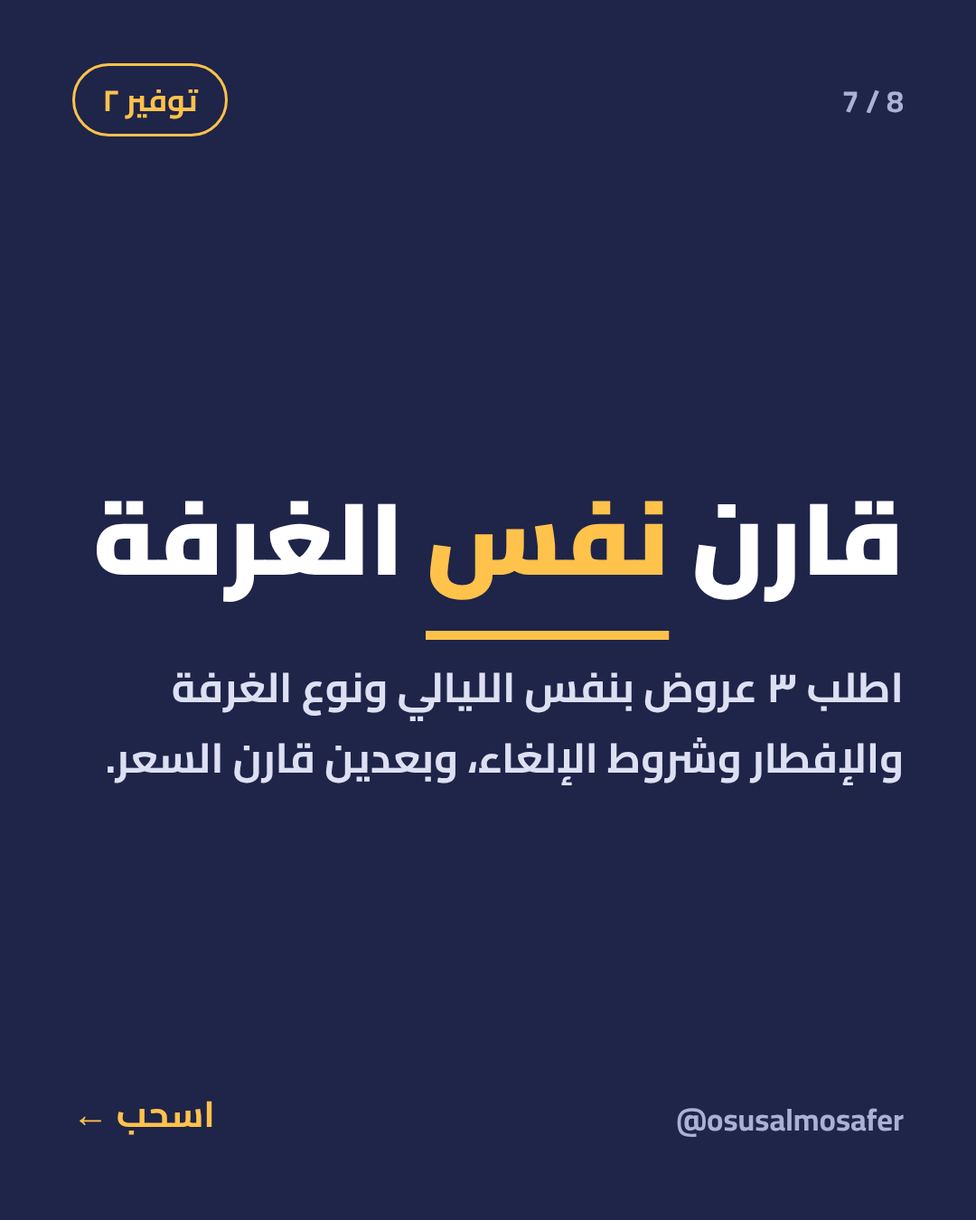
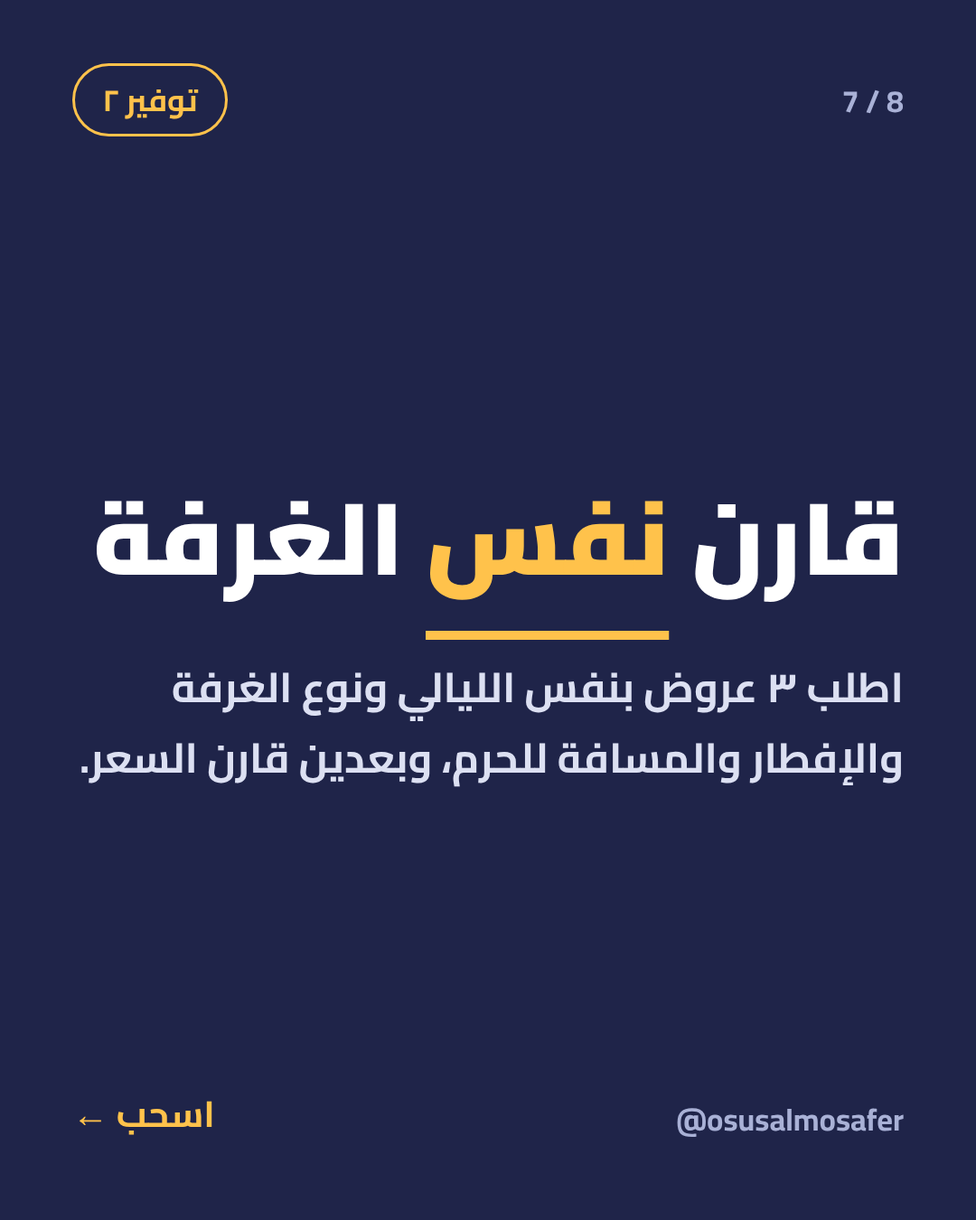
Remove cancellation ideas from carousels; add sixth carousel on family room choice
Claude-Session: https://claude.ai/code/session_018nkkgV5L9WVzQYR2S6kDaX

Changed region(s): [[0.1833, 0.5911, 0.7333, 0.6533], [0.0917, 0.5911, 0.1528, 0.6533]]

diff --git a/carousel/carousel7.html b/carousel/carousel7.html
@@ -1,0 +1,44 @@
+<!doctype html><html lang="ar" dir="rtl"><head><meta charset="utf-8"><style>
+@font-face{font-family:Cairo;src:url(fonts/Cairo.ttf);font-weight:200 1000}
+:root{--bg:#1F2449;--fg:#FFFFFF;--ac:#FFC24B;--mu:#A9B1D6}
+*{box-sizing:border-box;margin:0}body{background:#222;font-family:Cairo}
+.slide{width:1080px;height:1350px;background:var(--bg);color:var(--fg);position:relative;overflow:hidden;margin-bottom:20px}
+.counter,.pill,.brand,.cue{position:absolute;font-weight:700}
+.counter{top:80px;right:80px;font-size:34px;color:var(--mu);direction:ltr}
+.pill{top:70px;left:80px;font-size:34px;border:3px solid var(--ac);color:var(--ac);padding:6px 30px;border-radius:50px}
+.brand{bottom:80px;right:80px;font-size:34px;color:var(--mu);direction:ltr}
+.cue{bottom:80px;left:80px;font-size:40px;color:var(--ac)}
+.main{position:absolute;right:80px;left:80px;top:420px;z-index:2}
+h1{font-weight:900;font-size:112px;line-height:1.35}
+.cover h1{font-size:128px}
+u{display:inline-block;white-space:nowrap;line-height:1.25;color:var(--ac);text-decoration:none;background:linear-gradient(var(--ac),var(--ac)) bottom 6px right/100% 10px no-repeat;padding-bottom:14px}
+.body,.sub{font-weight:700;font-size:46px;line-height:1.7;margin-top:50px;color:#DCE0F2}
+.big{position:absolute;left:60px;top:200px;font-size:420px;font-weight:900;color:var(--ac);opacity:.12;line-height:1;direction:ltr}
+.card .main{top:520px}
+.glow{position:absolute;left:-200px;bottom:-200px;width:900px;height:900px;background:radial-gradient(circle,rgba(255,194,75,.16),transparent 65%)}
+.rings{position:absolute;left:-340px;bottom:-340px;width:760px;height:760px}
+.rings i{position:absolute;border:6px solid var(--ac);border-radius:50%;inset:0}
+.rings i:nth-child(2){inset:120px;opacity:.6}.rings i:nth-child(3){inset:240px;opacity:.35}
+.chips{margin-top:30px;display:flex;flex-direction:column;gap:28px}.chip{border:3px solid #3A4275;border-radius:28px;padding:30px 40px}.chip b{display:block;font-size:56px;font-weight:900;color:var(--ac)}.chip span{font-size:40px;font-weight:700;color:#DCE0F2;line-height:1.5}.cover .main{top:240px}.chips-s .main{top:230px}.last .main{top:420px}
+</style></head><body><section class="slide cover " id="s1"><div class="glow"></div><div class="rings"><i></i><i></i><i></i></div>
+<div class="counter">1 / 7</div><div class="pill">حجز مكة</div>
+<div class="main"><h1>غرفة تناسب <u>عائلتك</u>؟</h1><p class="sub">٥ أشياء تنتبه لها قبل ما تختار</p></div>
+<div class="brand">@osusalmosafer</div><div class="cue">اسحب ←</div></section><section class="slide card " id="s2">
+<div class="counter">2 / 7</div><div class="pill">١</div>
+<div class="main"><h1>نوع <u>الأسرّة</u></h1><p class="body">اسأل: أسرّة منفصلة أو سرير مزدوج؟ وهل السرير الإضافي متوفر ومريح لأطفالك؟</p></div>
+<div class="brand">@osusalmosafer</div><div class="cue">اسحب ←</div></section><section class="slide card " id="s3">
+<div class="counter">3 / 7</div><div class="pill">٢</div>
+<div class="main"><h1>غرف <u>مترابطة</u></h1><p class="body">للعائلة الكبيرة، اسأل عن الغرف المترابطة أو الجناح. أفضل من غرف متفرقة في أدوار مختلفة.</p></div>
+<div class="brand">@osusalmosafer</div><div class="cue">اسحب ←</div></section><section class="slide card " id="s4">
+<div class="counter">4 / 7</div><div class="pill">٣</div>
+<div class="main"><h1>الدور <u>والمصاعد</u></h1><p class="body">تأكد أن الغرفة قريبة من المصاعد وسهلة الوصول، خصوصاً لكبار السن وأوقات الذروة.</p></div>
+<div class="brand">@osusalmosafer</div><div class="cue">اسحب ←</div></section><section class="slide card " id="s5">
+<div class="counter">5 / 7</div><div class="pill">٤</div>
+<div class="main"><h1>الإطلالة <u>تستاهل</u>؟</h1><p class="body">الإطلالة تزيد السعر. حدد أولويتك: راحة وسعة أكبر، أو إطلالة بسعر أعلى؟</p></div>
+<div class="brand">@osusalmosafer</div><div class="cue">اسحب ←</div></section><section class="slide card " id="s6">
+<div class="counter">6 / 7</div><div class="pill">٥</div>
+<div class="main"><h1>الإفطار <u>والخدمات</u></h1><p class="body">تأكد أن الإفطار والخدمات تناسب أطفالك وكبار السن، وأوقاتها تناسب برنامجكم.</p></div>
+<div class="brand">@osusalmosafer</div><div class="cue">اسحب ←</div></section><section class="slide last " id="s7">
+<div class="counter">7 / 7</div><div class="pill">الخلاصة</div>
+<div class="main"><h1>الغرفة المناسبة <u>تريّحك</u></h1><p class="body">أرسلها لمن يجهز لرحلة مكة. وإذا تبي نرشح لك غرفة تناسب عائلتك، راسلنا.</p></div>
+<div class="brand">@osusalmosafer</div></section></body></html>

diff --git a/carousel/carousel2.html b/carousel/carousel2.html
@@ -40,7 +40,7 @@ u{color:var(--ac);text-decoration:none;background:linear-gradient(var(--ac),var(
 <div class="main"><h1>احجز <u>بدري</u></h1><p class="body">بعيد عن رمضان وأيام الحج الأسعار أقل بكثير. كل ما قربت من الموسم ارتفع السعر.</p></div>
 <div class="brand">@osusalmosafer</div><div class="cue">اسحب ←</div></section><section class="slide card " id="s7">
 <div class="counter">7 / 8</div><div class="pill">توفير ٢</div>
-<div class="main"><h1>قارن <u>نفس</u> الغرفة</h1><p class="body">اطلب ٣ عروض بنفس الليالي ونوع الغرفة والإفطار وشروط الإلغاء، وبعدين قارن السعر.</p></div>
+<div class="main"><h1>قارن <u>نفس</u> الغرفة</h1><p class="body">اطلب ٣ عروض بنفس الليالي ونوع الغرفة والإفطار والمسافة للحرم، وبعدين قارن السعر.</p></div>
 <div class="brand">@osusalmosafer</div><div class="cue">اسحب ←</div></section><section class="slide last " id="s8">
 <div class="counter">8 / 8</div><div class="pill">الخلاصة</div>
 <div class="main"><h1>الأرخص مو <u>دائماً</u> نفس الشي</h1><p class="body">الأسعار تتغير حسب الموسم، فقارن قبل ما تحجز. احفظها وأرسلها لمن يسافر لمكة.</p></div>

diff --git a/carousel/carousel4.html b/carousel/carousel4.html
@@ -28,7 +28,7 @@ u{display:inline-block;white-space:nowrap;line-height:1.25;color:var(--ac);text-
 <div class="main"><h1>تحجز <u>متأخر</u></h1><p class="body">كل ما قربت من الموسم ارتفع السعر وقلّت الخيارات. الحجز المبكر يعطيك خيارات أوسع.</p></div>
 <div class="brand">@osusalmosafer</div><div class="cue">اسحب ←</div></section><section class="slide card " id="s3">
 <div class="counter">3 / 7</div><div class="pill">خطأ ٢</div>
-<div class="main"><h1>تقارن <u>السعر</u> فقط</h1><p class="body">قارن معه الشروط: الإفطار، والإلغاء، والمسافة، ونوع الغرفة. سعر أقل بشروط أضعف مو توفير.</p></div>
+<div class="main"><h1>تقارن <u>السعر</u> فقط</h1><p class="body">قارن معه الشروط: الإفطار، والمسافة، ونوع الغرفة. سعر أقل بشروط أضعف مو توفير.</p></div>
 <div class="brand">@osusalmosafer</div><div class="cue">اسحب ←</div></section><section class="slide card " id="s4">
 <div class="counter">4 / 7</div><div class="pill">خطأ ٣</div>
 <div class="main"><h1>تدفع بدون <u>إثبات</u></h1><p class="body">تأكد أن الوكالة مرخصة، واطلب إثبات حجز باسمك، وتأكد من رقم التأكيد مع الفندق نفسه.</p></div>

diff --git a/carousel/carousel6.html b/carousel/carousel6.html
@@ -34,7 +34,7 @@ u{display:inline-block;white-space:nowrap;line-height:1.25;color:var(--ac);text-
 <div class="main"><h1>كم <u>يبعد</u>؟</h1><p class="body">اسأل كم دقيقة مشي للحرم وأقرب باب، وهل فيه نقل. الكلمة «قريب» لحالها ما تكفي.</p></div>
 <div class="brand">@osusalmosafer</div><div class="cue">اسحب ←</div></section><section class="slide card " id="s5">
 <div class="counter">5 / 7</div><div class="pill">سؤال ٤</div>
-<div class="main"><h1>وش <u>الإلغاء</u>؟</h1><p class="body">اسأل عن شروط الإلغاء والتعديل والاسترجاع، واطلبها مكتوبة قبل ما تدفع.</p></div>
+<div class="main"><h1>كم <u>الليالي</u> بالضبط؟</h1><p class="body">تأكد من تاريخ الدخول والخروج وعدد الليالي ووقت تسجيل الدخول، عشان ما تتفاجأ عند الوصول.</p></div>
 <div class="brand">@osusalmosafer</div><div class="cue">اسحب ←</div></section><section class="slide card " id="s6">
 <div class="counter">6 / 7</div><div class="pill">سؤال ٥</div>
 <div class="main"><h1>متى <u>التأكيد</u>؟</h1><p class="body">اسأل متى يوصلك تأكيد الحجز، وبأي طريقة، وهل تقدر تتأكد منه مع الفندق نفسه.</p></div>

diff --git a/carousel/carousel3.html b/carousel/carousel3.html
@@ -34,7 +34,7 @@ u{display:inline-block;white-space:nowrap;line-height:1.25;color:var(--ac);text-
 <div class="main"><h1>الغرفة <u>تكفيكم</u></h1><p class="body">تأكد من عدد الأسرّة والسعة لعدد أفراد عائلتك فعلاً، مو بس الحد الأقصى.</p></div>
 <div class="brand">@osusalmosafer</div><div class="cue">اسحب ←</div></section><section class="slide card " id="s5">
 <div class="counter">5 / 7</div><div class="pill">٤</div>
-<div class="main"><h1>شروط <u>الإلغاء</u></h1><p class="body">اقرأ شروط الإلغاء والتعديل واطلبها مكتوبة قبل ما تدفع. تفرق معك لو تغيرت خطتك.</p></div>
+<div class="main"><h1>الخدمات <u>المشمولة</u></h1><p class="body">اسأل وش يشمل السعر: الإفطار، والنقل، وخدمات الغرفة. عشان ما تدفع على شي تحسبه مجاني.</p></div>
 <div class="brand">@osusalmosafer</div><div class="cue">اسحب ←</div></section><section class="slide card " id="s6">
 <div class="counter">6 / 7</div><div class="pill">٥</div>
 <div class="main"><h1>التقييمات <u>الأخيرة</u></h1><p class="body">اقرأ تقييمات آخر ٣ أشهر مو الأقدم، خصوصاً من ناس سافروا في نفس موسمك.</p></div>

diff --git a/carousel/render7.js b/carousel/render7.js
@@ -1,0 +1,5 @@
+const {chromium}=require('playwright');
+(async()=>{const b=await chromium.launch();const p=await b.newPage({viewport:{width:1080,height:1350}});
+await p.goto('file://'+process.cwd()+'/carousel7.html');await p.evaluate(()=>document.fonts.ready);await p.waitForTimeout(500);
+for(let i=1;i<=7;i++){await (await p.$('#s'+i)).screenshot({path:`room-${i}.png`});}
+await b.close()})();

diff --git a/carousel/gen7.py b/carousel/gen7.py
@@ -1,0 +1,45 @@
+slides = [
+ dict(kind="cover", label="حجز مكة", h="غرفة تناسب <u>عائلتك</u>؟", sub="٥ أشياء تنتبه لها قبل ما تختار"),
+ dict(kind="card", label="١", h="نوع <u>الأسرّة</u>", body="اسأل: أسرّة منفصلة أو سرير مزدوج؟ وهل السرير الإضافي متوفر ومريح لأطفالك؟"),
+ dict(kind="card", label="٢", h="غرف <u>مترابطة</u>", body="للعائلة الكبيرة، اسأل عن الغرف المترابطة أو الجناح. أفضل من غرف متفرقة في أدوار مختلفة."),
+ dict(kind="card", label="٣", h="الدور <u>والمصاعد</u>", body="تأكد أن الغرفة قريبة من المصاعد وسهلة الوصول، خصوصاً لكبار السن وأوقات الذروة."),
+ dict(kind="card", label="٤", h="الإطلالة <u>تستاهل</u>؟", body="الإطلالة تزيد السعر. حدد أولويتك: راحة وسعة أكبر، أو إطلالة بسعر أعلى؟"),
+ dict(kind="card", label="٥", h="الإفطار <u>والخدمات</u>", body="تأكد أن الإفطار والخدمات تناسب أطفالك وكبار السن، وأوقاتها تناسب برنامجكم."),
+ dict(kind="last", label="الخلاصة", h="الغرفة المناسبة <u>تريّحك</u>", body="أرسلها لمن يجهز لرحلة مكة. وإذا تبي نرشح لك غرفة تناسب عائلتك، راسلنا."),
+]
+N=len(slides)
+out=[]
+for i,s in enumerate(slides,1):
+    cue = '' if i==N else '<div class="cue">اسحب ←</div>'
+    chips = ''.join(f'<div class="chip"><b>{a}</b><span>{b}</span></div>' for a,b in s.get("chips",[]))
+    vis = '<div class="glow"></div><div class="rings"><i></i><i></i><i></i></div>' if s["kind"]=="cover" else ''
+    sub = f'<p class="sub">{s["sub"]}</p>' if s["kind"]=="cover" else f'<p class="body">{s.get("body","")}</p>'
+    num = ''
+    out.append(f'''<section class="slide {s["kind"]} {"chips-s" if s["kind"]=="chips" else ""}" id="s{i}">{vis}{num}
+<div class="counter">{i} / {N}</div><div class="pill">{s["label"] if s["kind"]!="cover" else "حجز مكة"}</div>
+<div class="main"><h1>{s["h"]}</h1>{sub if s["kind"]!="chips" else '<div class="chips">'+chips+'</div>'}</div>
+<div class="brand">@osusalmosafer</div>{cue}</section>''')
+html=f'''<!doctype html><html lang="ar" dir="rtl"><head><meta charset="utf-8"><style>
+@font-face{{font-family:Cairo;src:url(fonts/Cairo.ttf);font-weight:200 1000}}
+:root{{--bg:#1F2449;--fg:#FFFFFF;--ac:#FFC24B;--mu:#A9B1D6}}
+*{{box-sizing:border-box;margin:0}}body{{background:#222;font-family:Cairo}}
+.slide{{width:1080px;height:1350px;background:var(--bg);color:var(--fg);position:relative;overflow:hidden;margin-bottom:20px}}
+.counter,.pill,.brand,.cue{{position:absolute;font-weight:700}}
+.counter{{top:80px;right:80px;font-size:34px;color:var(--mu);direction:ltr}}
+.pill{{top:70px;left:80px;font-size:34px;border:3px solid var(--ac);color:var(--ac);padding:6px 30px;border-radius:50px}}
+.brand{{bottom:80px;right:80px;font-size:34px;color:var(--mu);direction:ltr}}
+.cue{{bottom:80px;left:80px;font-size:40px;color:var(--ac)}}
+.main{{position:absolute;right:80px;left:80px;top:420px;z-index:2}}
+h1{{font-weight:900;font-size:112px;line-height:1.35}}
+.cover h1{{font-size:128px}}
+u{{display:inline-block;white-space:nowrap;line-height:1.25;color:var(--ac);text-decoration:none;background:linear-gradient(var(--ac),var(--ac)) bottom 6px right/100% 10px no-repeat;padding-bottom:14px}}
+.body,.sub{{font-weight:700;font-size:46px;line-height:1.7;margin-top:50px;color:#DCE0F2}}
+.big{{position:absolute;left:60px;top:200px;font-size:420px;font-weight:900;color:var(--ac);opacity:.12;line-height:1;direction:ltr}}
+.card .main{{top:520px}}
+.glow{{position:absolute;left:-200px;bottom:-200px;width:900px;height:900px;background:radial-gradient(circle,rgba(255,194,75,.16),transparent 65%)}}
+.rings{{position:absolute;left:-340px;bottom:-340px;width:760px;height:760px}}
+.rings i{{position:absolute;border:6px solid var(--ac);border-radius:50%;inset:0}}
+.rings i:nth-child(2){{inset:120px;opacity:.6}}.rings i:nth-child(3){{inset:240px;opacity:.35}}
+.chips{{margin-top:30px;display:flex;flex-direction:column;gap:28px}}.chip{{border:3px solid #3A4275;border-radius:28px;padding:30px 40px}}.chip b{{display:block;font-size:56px;font-weight:900;color:var(--ac)}}.chip span{{font-size:40px;font-weight:700;color:#DCE0F2;line-height:1.5}}.cover .main{{top:240px}}.chips-s .main{{top:230px}}.last .main{{top:420px}}
+</style></head><body>{"".join(out)}</body></html>'''
+open("carousel7.html","w").write(html)

diff --git a/carousel/gen4.py b/carousel/gen4.py
@@ -1,7 +1,7 @@
 slides = [
  dict(kind="cover", label="حجز مكة", h="٥ أخطاء <u>تكلفك أكثر</u>", sub="عند حجز فندق مكة، تجنبها قبل رحلتك"),
  dict(kind="card", label="خطأ ١", h="تحجز <u>متأخر</u>", body="كل ما قربت من الموسم ارتفع السعر وقلّت الخيارات. الحجز المبكر يعطيك خيارات أوسع."),
- dict(kind="card", label="خطأ ٢", h="تقارن <u>السعر</u> فقط", body="قارن معه الشروط: الإفطار، والإلغاء، والمسافة، ونوع الغرفة. سعر أقل بشروط أضعف مو توفير."),
+ dict(kind="card", label="خطأ ٢", h="تقارن <u>السعر</u> فقط", body="قارن معه الشروط: الإفطار، والمسافة، ونوع الغرفة. سعر أقل بشروط أضعف مو توفير."),
  dict(kind="card", label="خطأ ٣", h="تدفع بدون <u>إثبات</u>", body="تأكد أن الوكالة مرخصة، واطلب إثبات حجز باسمك، وتأكد من رقم التأكيد مع الفندق نفسه."),
  dict(kind="card", label="خطأ ٤", h="تنسى <u>الرسوم</u> الإضافية", body="اسأل: هل السعر شامل الضريبة والرسوم؟ بعض العروض تنعرض بسعر وتنزاد عليها رسوم بعدين."),
  dict(kind="card", label="خطأ ٥", h="ما <u>تأكد</u> قبل السفر", body="كلّم الفندق قبل وصولك بأيام وتأكد من الحجز وموعد الدخول، عشان ما تنصدم عند الاستقبال."),

diff --git a/carousel/gen6.py b/carousel/gen6.py
@@ -3,7 +3,7 @@ slides = [
  dict(kind="card", label="سؤال ١", h="السعر <u>شامل</u>؟", body="اسأل: هل السعر شامل الضريبة والرسوم؟ وش اللي ما يدخل فيه؟"),
  dict(kind="card", label="سؤال ٢", h="أي <u>فندق</u> بالضبط؟", body="اطلب اسم الفندق ونوع الغرفة بالتحديد، مو وصف عام. عشان تقارن العروض بنفس الأساس."),
  dict(kind="card", label="سؤال ٣", h="كم <u>يبعد</u>؟", body="اسأل كم دقيقة مشي للحرم وأقرب باب، وهل فيه نقل. الكلمة «قريب» لحالها ما تكفي."),
- dict(kind="card", label="سؤال ٤", h="وش <u>الإلغاء</u>؟", body="اسأل عن شروط الإلغاء والتعديل والاسترجاع، واطلبها مكتوبة قبل ما تدفع."),
+ dict(kind="card", label="سؤال ٤", h="كم <u>الليالي</u> بالضبط؟", body="تأكد من تاريخ الدخول والخروج وعدد الليالي ووقت تسجيل الدخول، عشان ما تتفاجأ عند الوصول."),
  dict(kind="card", label="سؤال ٥", h="متى <u>التأكيد</u>؟", body="اسأل متى يوصلك تأكيد الحجز، وبأي طريقة، وهل تقدر تتأكد منه مع الفندق نفسه."),
  dict(kind="last", label="الخلاصة", h="احفظ الأسئلة <u>قبل</u> الدفع", body="أرسلها لمن يجهز لرحلة مكة. وإذا تبي نجاوبك بكل وضوح، راسلنا."),
 ]

diff --git a/carousel/gen3.py b/carousel/gen3.py
@@ -3,7 +3,7 @@ slides = [
  dict(kind="card", label="١", h="المسافة <u>الحقيقية</u>", body="كلمة «قريب» مطاطة. اسأل كم دقيقة مشي لأقرب باب للحرم، وبدون زحام."),
  dict(kind="card", label="٢", h="طريق <u>المشي</u>", body="تأكد أنه مريح لكبار السن والأطفال، وفيه مصاعد، وما فيه طلعات صعبة."),
  dict(kind="card", label="٣", h="الغرفة <u>تكفيكم</u>", body="تأكد من عدد الأسرّة والسعة لعدد أفراد عائلتك فعلاً، مو بس الحد الأقصى."),
- dict(kind="card", label="٤", h="شروط <u>الإلغاء</u>", body="اقرأ شروط الإلغاء والتعديل واطلبها مكتوبة قبل ما تدفع. تفرق معك لو تغيرت خطتك."),
+ dict(kind="card", label="٤", h="الخدمات <u>المشمولة</u>", body="اسأل وش يشمل السعر: الإفطار، والنقل، وخدمات الغرفة. عشان ما تدفع على شي تحسبه مجاني."),
  dict(kind="card", label="٥", h="التقييمات <u>الأخيرة</u>", body="اقرأ تقييمات آخر ٣ أشهر مو الأقدم، خصوصاً من ناس سافروا في نفس موسمك."),
  dict(kind="last", label="الخلاصة", h="احفظها قبل <u>حجزك</u> الجاي", body="أرسلها لمن يجهز لرحلة مكة. وإذا تبي نساعدك في اختيار الفندق، راسلنا."),
 ]

diff --git a/carousel/gen2.py b/carousel/gen2.py
@@ -5,7 +5,7 @@ slides = [
  dict(kind="card", label="السبب ٢", h="أسعار مو <u>معروضة</u>", body="الفنادق تعطي الوكالات أسعار خاصة للتجار، ما تنعرض للزبون العادي على الموقع."),
  dict(kind="card", label="السبب ٣", h="عمولة <u>الوسيط</u>", body="المواقع العالمية تاخذ عمولة من الفندق، والفندق يحسبها في السعر. الوكالة المحلية غالباً أقل تكلفة."),
  dict(kind="card", label="توفير ١", h="احجز <u>بدري</u>", body="بعيد عن رمضان وأيام الحج الأسعار أقل بكثير. كل ما قربت من الموسم ارتفع السعر."),
- dict(kind="card", label="توفير ٢", h="قارن <u>نفس</u> الغرفة", body="اطلب ٣ عروض بنفس الليالي ونوع الغرفة والإفطار وشروط الإلغاء، وبعدين قارن السعر."),
+ dict(kind="card", label="توفير ٢", h="قارن <u>نفس</u> الغرفة", body="اطلب ٣ عروض بنفس الليالي ونوع الغرفة والإفطار والمسافة للحرم، وبعدين قارن السعر."),
  dict(kind="last", label="الخلاصة", h="الأرخص مو <u>دائماً</u> نفس الشي", body="الأسعار تتغير حسب الموسم، فقارن قبل ما تحجز. احفظها وأرسلها لمن يسافر لمكة."),
 ]
 N=len(slides)
